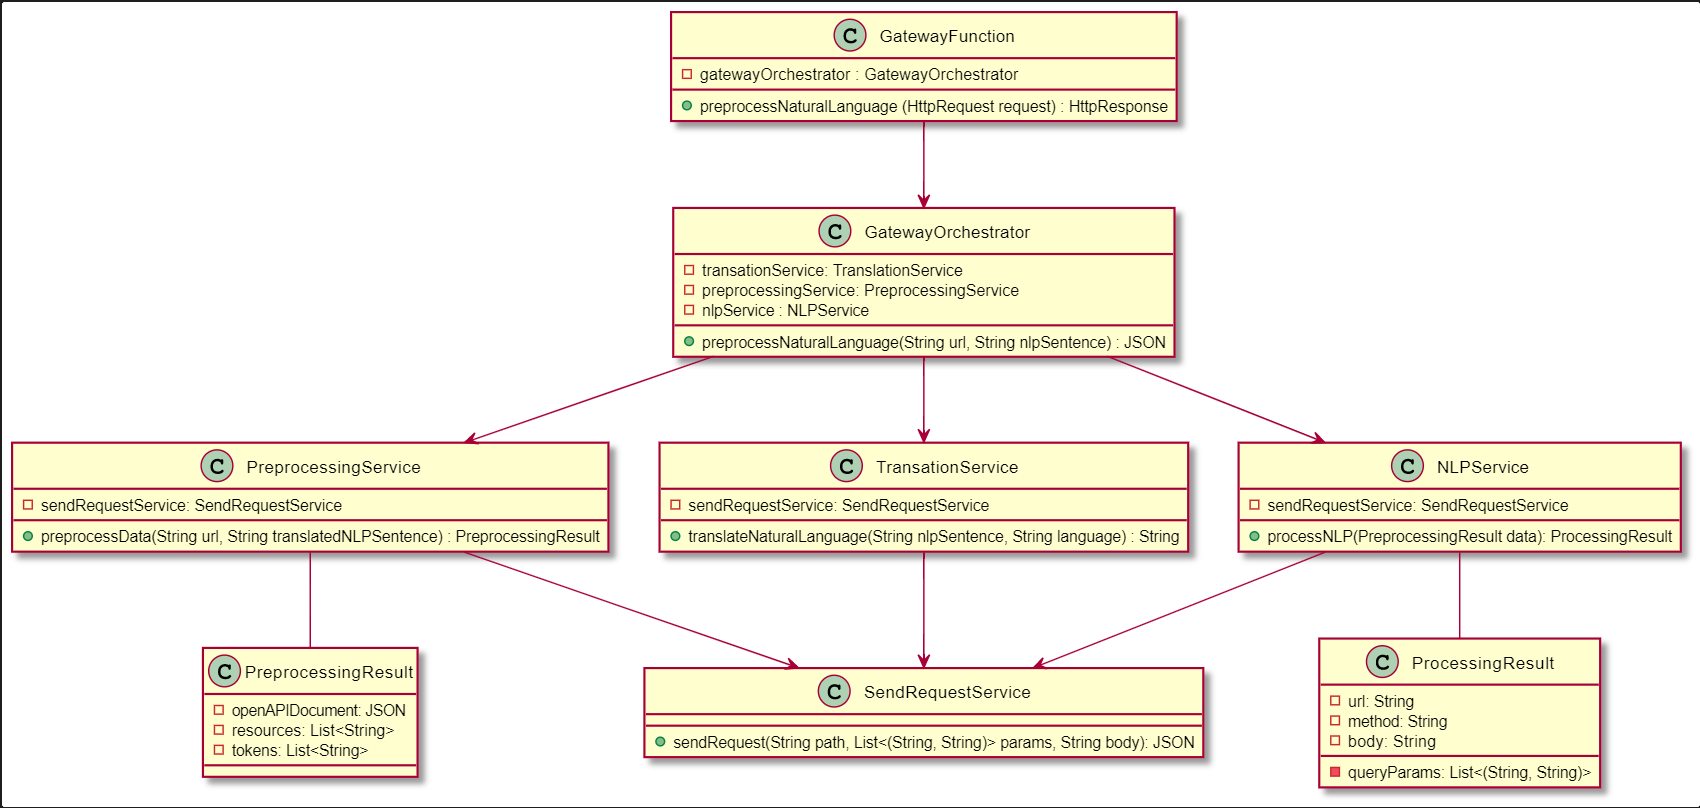
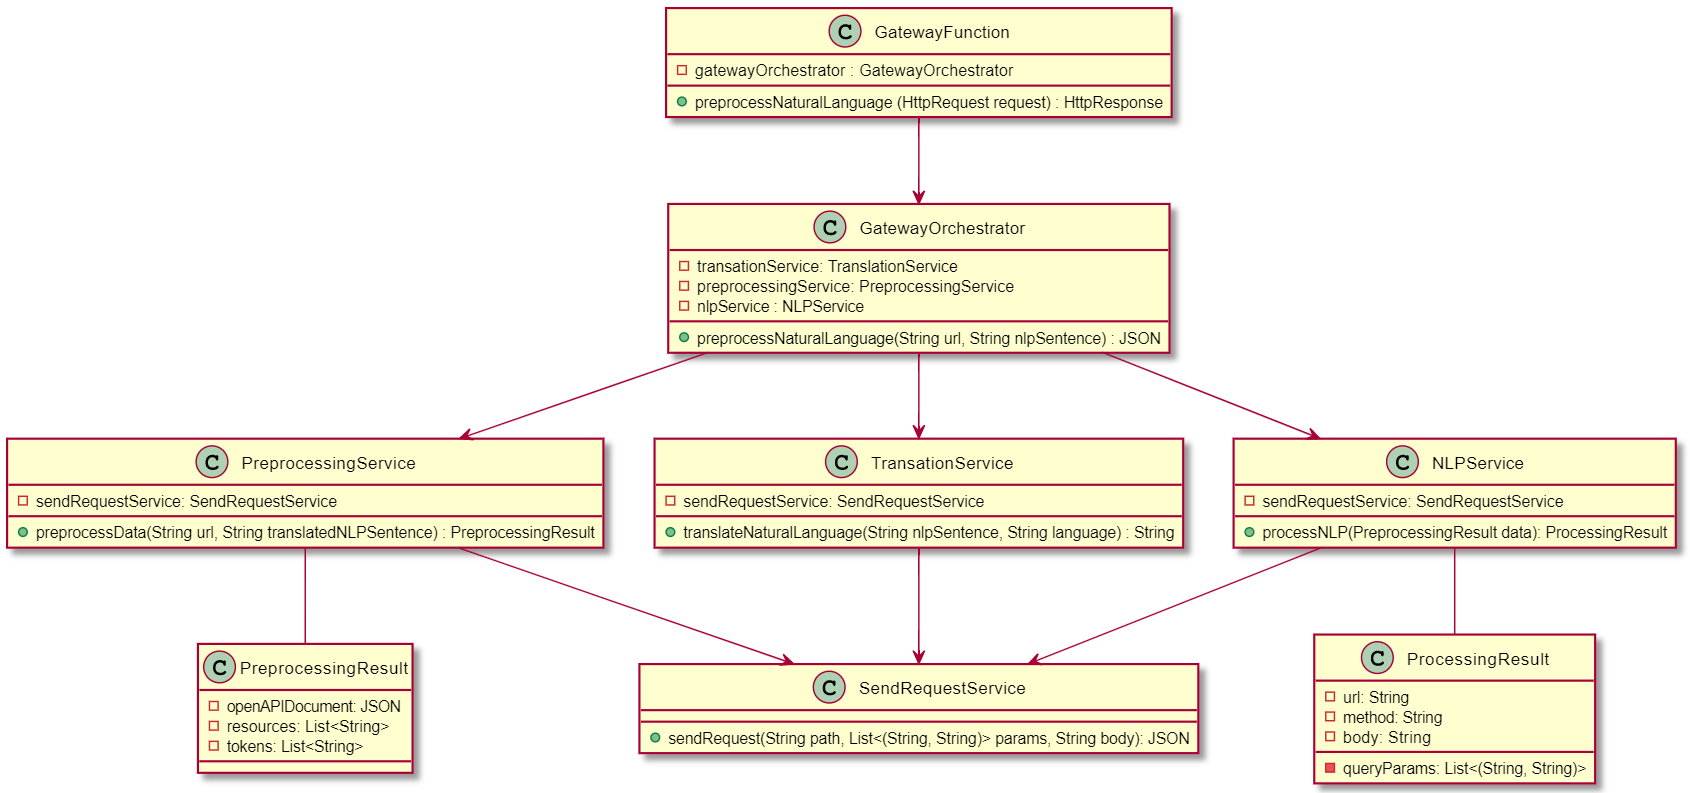
fix typos, add architecture

diff --git a/scholary.html b/scholary.html
@@ -3,7 +3,7 @@
    <head>
       <meta charset="utf-8">
       <meta name="viewport" content="width=device-width, initial-scale=1.0, user-scalable=yes">
-      <title>Scholarly HTML</title>
+      <title>RAT-Scholarly HTML</title>
       <link rel="stylesheet" href="https://w3c.github.io/scholarly-html/css/scholarly.css">
       <script src="https://w3c.github.io/scholarly-html/js/scholarly.min.js"></script>
 
@@ -42,20 +42,20 @@
             <p class="info">Develop a Web tool (framework) using natural language constructs to interact to a <a href="https://github.com/marmelab/awesome-rest" title="A collaborative list of resources about REST APIs">REST API</a>. The tool will (re)use knowledge model(s) to learn the proper concepts exposed by the <a href="https://www.openapis.org/" title="About OpenAPI">OpenAPI</a> document describing this API (e.g., resources, their inputs and outputs) to facilitate a proper text/voice-based interaction. Test and demonstrate the system's features by choosing minimum two <a href="https://apis.guru/browse-apis/" title="A list of public REST APIs">public REST APIs</a>. Inspiration: <a href="https://naturalsql.com/" title="Details">Photon</a> (article: <a href="https://arxiv.org/abs/2007.15280" title="Read the article">A Robust Cross-Domain Text-to-SQL System</a>). Bonus: provide multi-lingual support.</p>
          </section>
          <section typeof="sa:Propoused_solution" id="Propoused_solution">
-            <h3>Propoused solution</h3>
+            <h3>Proposed solution</h3>
             <p>
                We propose a multi-service application which will aggregate a multitude of micro-service and will provide a user-friendly interface. 
             </p>
             <p>
-               The interface should be used to input a link of an OpenAPI and a query formultated in natural language.            
+               The interface should be used to input a link of an OpenAPI and a sentence that describes the wanted interaction with the specified API.            
             </p>
             <p>
                We will have a central API point that will play the role of the static delivery hub and of a gateway for the rest of the services. The services we will use are:
             <ul>
                <li>
-                  <h4> Transalation Service </h4>
+                  <h4> Translation Service </h4>
                   <p>
-                     Will take the natural language query and will translate it to english. English is language used in most OpenAPi descriptions.
+                     Will take the natural language query and will translate it to english. English is the language used in most OpenAPi descriptions.
                   </p>
                </li>
                <li>
@@ -67,7 +67,7 @@
                <li>
                   <h4> NaturalLanguage Service </h4>
                   <p>
-                     Will use the information provided by Translation Service and Preprocessing Service in order  to compute a query. We will try to use the knowledge we have in order to create a API call and return it to the user.
+                     Will use the information provided by Translation Service and Preprocessing Service in order  to compute a query. We will try to use the knowledge we have in order to create an API call and return it to the user.
                   </p>
                </li>
             </ul>
@@ -86,19 +86,34 @@
             <h4> JavaScript </h4>
             <p>
                We chose JavaScript for the front-end part of the application. We intend to use a JS framework called
-               Angular in order to create a responsive and modern user interface. 
+               Angular in order to create a responsive and modern user interface.
+            </p>
+            <h4> Typescript </h4>
+            <p>
+               Additionally, for the services that do not require additional processing libraries, we opted for Typescript for all the JavaScript benefits but with 
+               the addition of readability and reliability provided by the support for types.
             </p>
          </section>
 
          <section id="arhitecture">
-            <h3> Arhitecture </h3>
-
+            <h3> Architecture </h3>
+            <p>The application of our application can be seen in the image below. </p>
             <p>
-               <img src="diagrams/c4-system-diagram.png" alt="C4 diagram" >
-
-
-               
+               <img src="diagrams/c4-system-diagram.png" alt="C4 diagram" width="100%">
             </p>
+               <h4> Angular Frontend application</h4>
+               <p> The user will interact with an Angular front-end application where he/she can specify the link to an OpenAPI document and the sentence that describes the wanted
+               interaction with the specified API. </p>
+               <h4> API Gateway</h4>
+               <p>The front-end application will send the request to an orchestration service. This service, contained in a Typescript Azure Function, is responsible for managing the execution steps of our proposed solution.</p>
+               <p>
+                  <img src="diagrams/uml-gateway.png" alt="gateway UML diagram" width="100%">
+               </p>
+               <h4> Translation Service</h4>
+               <p>If the translation of the sentence is required, it will send a request to the translation service, also a Typescript Azure Function, that will directly interact with the Google Translate API and translate the sentence.</p>
+               <h4> Preprocessing and Natural Language Processing services</h4>
+               <p>After translation, the orchestration service interacts with the preprocessing service and then the processing service in order to transform the input into the wanted request, both Python Azure Functions. </p>
+
          </section>
 
       </section>
@@ -109,10 +124,10 @@
             <p>
             <ul>
                <li>
-                  <b> POST : /proccess </b>
+                  <b> POST : /process </b>
                   <ul>
                      <li>
-                        Querry parameters : empty
+                        Query parameters : empty
                      </li>
                      <li>
                         Body: <code>
@@ -125,7 +140,7 @@
                         </code>
                      </li>
                      <li>
-                        Reasponse:
+                        Response:
                         <ul>
                            <li>
                               200 Success:
@@ -165,7 +180,7 @@
                   <b>POST /preprocess </b>
                   <ul>
                      <li>
-                        Querry parameters: empty
+                        Query parameters: empty
                      
                         </ul>
                      </li>
@@ -179,7 +194,7 @@
                         </code>
                      </li>
                      <li>
-                        Reasponse:
+                        Response:
                         <ul>
                            <li>
                               200 Success:
@@ -210,15 +225,15 @@
                </li>
             </ul>
          </section>
-         <section id="Transalation_API">
-            <h3> Transalation API</h3>
+         <section id="Translation_API">
+            <h3> Translation API</h3>
             <p>
             <ul>
                <li>
                   <b> POST /translate </b>
                   <ul>
                      <li>
-                        Querry parameters: empty
+                        Query parameters: empty
                      </li>
                      <li>
                         Body: <code>
@@ -229,7 +244,7 @@
                         </code>
                      </li>
                      <li>
-                        Reasponse:
+                        Response:
                         <ul>
                            <li>
                               200 Success:
@@ -254,15 +269,15 @@
                </li>
             </ul>
          </section>
-         <section id="NaturalLanguageProccesing_API">
-            <h3> NaturalLanguageProccesing API</h3>
+         <section id="NaturalLanguageProcessing_API">
+            <h3> NaturalLanguageProcessing API</h3>
             <p>
             <ul>
                <li>
-                  <b>POST: /proccess </b>
+                  <b>POST: /process </b>
                   <ul>
                      <li>
-                        Querry parameters: No parameters
+                        Query parameters: No parameters
                      </li>
                      <li>
                         Body:
@@ -279,7 +294,7 @@
                         </code>
                      </li>
                      <li>
-                        Reasponse:
+                        Response:
                         <ul>
                            <li>
                               200 Success:
@@ -312,8 +327,8 @@
             </ul>
          </section>
       </section>
-      <section id="Tehnologies">
-         <h2> Tehnologies </h2>
+      <section id="Technologies">
+         <h2> Technologies </h2>
          <section id="Azure_functions">
             <h3> Azure functions </h3>
             <p>
@@ -346,7 +361,7 @@
          <section id="scikit-learn">
             <h3> Scikit-learn </h3>
             <p>
-               Scikit-learn is a library in Python that provides many unsupervised and supervised learning algorithms. It’s built upon some of the technology we are already familiar with like with, like NumPy, Pandas, and Matplotlib.
+               Scikit-learn is a library in Python that provides many unsupervised and supervised learning algorithms. It’s built upon some of the technology we are already familiar with, like NumPy, Pandas, and Matplotlib.
             </p>
          </section>
       </section>
@@ -356,6 +371,23 @@
             We are eager to implement this project.
             Updates will come!
          </p>
+      </section>
+      <section id="biblio-references">
+         <h2>References</h2>
+            <ul>
+               <li><cite>
+                  <a href="https://scikit-learn.org/stable/">Scikit-learn</a>
+                </cite></li>
+                <li><cite>
+                  <a href="https://angular.io/">Angular</a>
+                </cite></li>
+                <li><cite>
+                  <a href="https://www.typescriptlang.org/">Typescript</a>
+                </cite></li>
+                <li><cite>
+                  <a href="https://azure.microsoft.com/en-us/services/functions/">Azure functions</a>
+                </cite></li>
+            </ul>
       </section>
    </body>
 </html>
